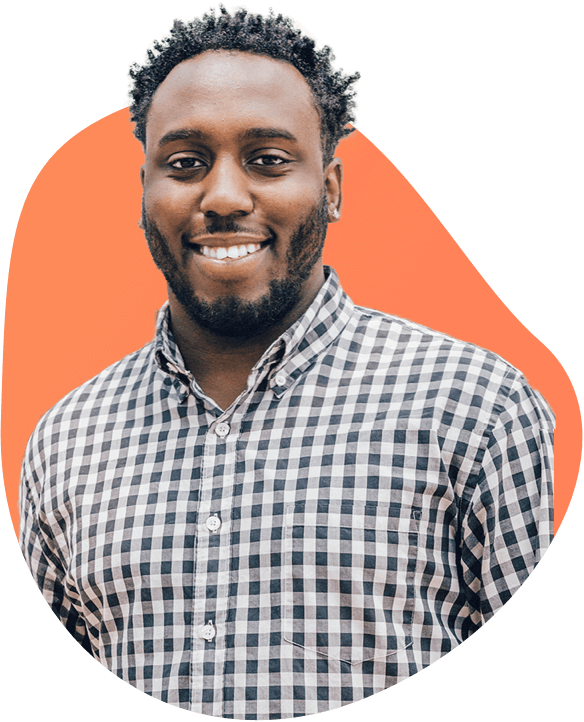
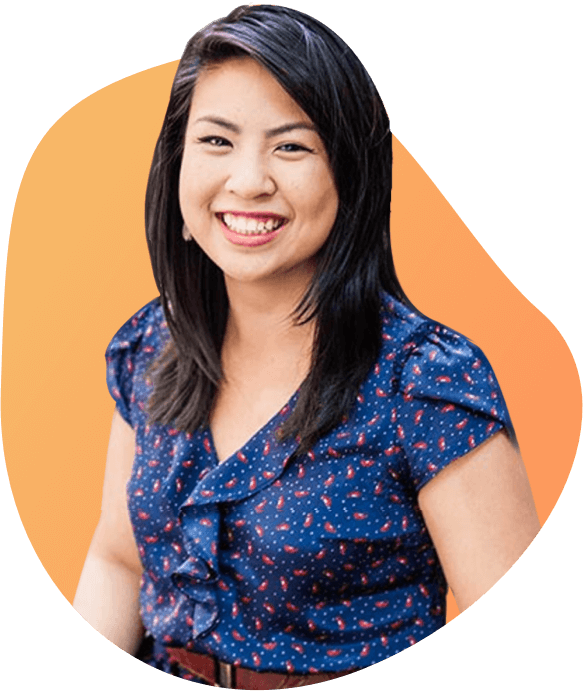
section7 section8 complete

diff --git a/index.html b/index.html
@@ -233,8 +233,75 @@
                 </div>
             </section>
         </div>
-        <div class="container-fullwidth section7"></div>
-        <div class="container-fullwidth section8"></div>
+        <div class="container-fullwidth section7">
+            <section class="jumbotron-customer">
+                <div class="container">
+                    <div class="customer-wrapper clearfix">
+                        <div class="customer-description">
+                            <h3>68,800</h3>
+                            <p>customers in over <strong>100</strong><br> countries growing their businesses with HubSpot</p>
+                        </div>
+                        <div class="customers clearfix">
+                            <div class="customer">
+                                <div>
+                                    <img src="img/Atlassian-horizontal-blue@2x.webp" alt="Atlassian logo">
+                                </div>
+                            </div>
+                            <div class="customer">
+                                <div>
+                                    <img src="img/doordash_owler_20181011_194113_original@2x.webp" alt="Doordash logo">
+                                </div>
+                            </div>
+                            <div class="customer">
+                                <div>
+                                    <img src="img/g2crowd-logo@2x.webp" alt="Crowd logo">
+                                </div>
+                            </div>
+                            <div class="customer">
+                                <div>
+                                    <img src="img/purple-logo@2x.webp" alt="Purple logo">
+                                </div>
+                            </div>
+                            <div class="customer">
+                                <div>
+                                    <img src="img/Subaru_Logo_v2_186x63@2x.webp" alt="Subaru logo">
+                                </div>
+                            </div>
+                            <div class="customer">
+                                <div>
+                                    <img src="img/Wistia_logo@2x.webp" alt="Wistia logo">
+                                </div>
+                            </div>
+                            <div class="customer">
+                                <div>
+                                    <img src="img/Classpass-logo@2x.webp" alt="Classpass logo">
+                                </div>
+                            </div>
+                            <div class="customer">
+                                <div>
+                                    <img src="img/VMware_logo_gry_RGB_300dpi@2x.webp" alt="VMware logo">
+                                </div>
+                            </div>
+                        </div>
+                    </div>
+                </div>
+            </section>
+        </div>
+        <div class="container-fullwidth section8">
+            <div class="container">
+                <div class="grow clearfix">
+                    <div class="grow-left">
+                        <h2>Start Growing With HubSpot Today</h2>
+                        <p>With tools to make every part of your process more human and a support team excited to help you, getting started with inbound has never been easier.</p>
+                        <button class="cta cta-big">Get HubSpot free</button>
+                        <small>Get started with FREE tools, or get more with our premium software.</small>
+                    </div>
+                    <div class="grow-right">
+                        <img src="img/Variation-2@2x.webp" alt="profile">
+                    </div>
+                </div>
+            </div>
+        </div>
         <div class="container-fullwidth section9"></div>
     </body>
 </html>

diff --git a/css/style.css b/css/style.css
@@ -568,15 +568,101 @@ nav {
     border-right: 1px solid #ffffff;
 }
 /* end of Section6 */
+/* Section7 */
 .section7 {
-    height: 290px;
+    /* height: 290px; only for construction purposes */
+    /* background-color: #FFFFFF; */
+}
+
+.customer-wrapper {
+    width: 90%;
+    margin: 0 auto;
+    padding-top: 100px;
+}
+
+.customer-description {
+    width: 30%;
+    float: left;
+}
+
+.customer-description h3 {
+    font-size: 40px;
+    font-weight: 900;
+    color: #33475b;
+    letter-spacing: 1px;
+    padding: 20px 0;
+}
+
+.customer-description p {
+    color: #425b76;
+    font-size: 19px;
+    line-height: 1.5;
+    letter-spacing: 1px;
+}
+
+.customers {
+    width: 60%;
+    margin-left: 10%;
+    float: right;
+    text-align: center;
+    padding-top: 10px;
+}
+
+.customer {
+    width: 25%;
+    height: 85px;
+    line-height: 85px;
+    float: left;
+}
+
+.customer img {
+    width: 110px;
+    vertical-align: middle;
+}
+/* end of Section7 */
+/* Section8 */
+.section8 {
+    /* height: 681px; only for construction purposes */
     background-color: #FFFFFF;
 }
 
-.section8 {
-    height: 681px;
-    background-color: #FFFFFF;
+.grow {
+    padding: 100px 0;
 }
+
+.grow-left {
+    width: 45%;
+    padding-top: 50px;
+    float: left;
+}
+
+.grow h2 {
+    font-size: 32px;
+    color: #33475b;
+    letter-spacing: 1px;
+    font-weight: 900;
+}
+
+.grow p {
+    color: #425b76;
+    line-height: 1.7;
+    padding: 30px 0;
+}
+
+.grow small {
+    font-size: 12px;
+    color: #516f90;
+}
+
+.grow-right {
+    width: 33.3333%;
+    float: right;
+}
+
+.grow img {
+    width: 350px;
+}
+/* end of Section8 */
 
 .section9 {
     height: 656px;
